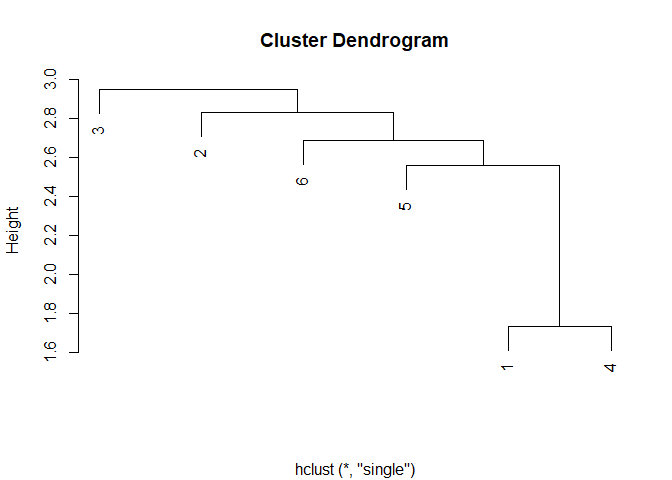
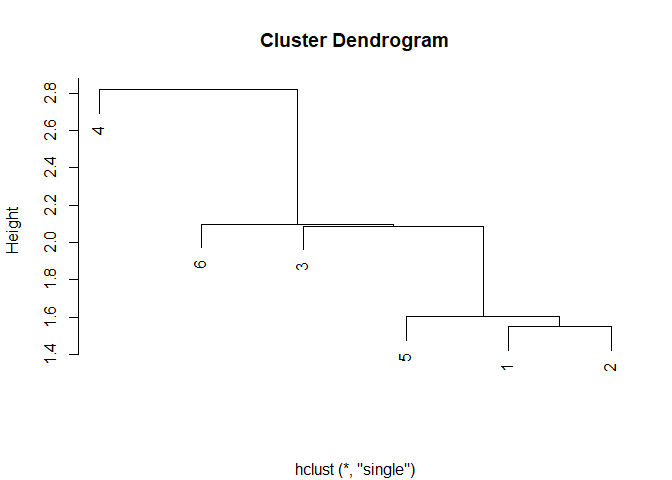
Added explanation on how to start the shiny ap from within the package

diff --git a/README.md b/README.md
@@ -34,6 +34,17 @@ if(!requireNamespace("devtools", quietly = TRUE))
 devtools::install_github("ECSchmitt/PPClustA")
 ```
 
+## Running the App
+
+To start the shiny app load the PPClustA library and call the
+PPClustA::runapp() function
+
+``` r
+library("PPClustA")
+
+PPClustA::runapp()
+```
+
 ## Some Theory behind the package
 
 Looking at [expression
@@ -70,13 +81,13 @@ random 6\*6 numerical matrix can be produced as follows
 matrix <- matrix(rnorm(36), nrow = 6)
 ```
 
-    #>             [,1]         [,2]        [,3]        [,4]       [,5]        [,6]
-    #> [1,] -0.81140678 -0.080612335 -1.02032591 -0.08516833 -0.6049650  0.02631892
-    #> [2,]  0.74368781  1.455889195 -0.99047392 -0.36204828 -1.0065386 -0.60746952
-    #> [3,]  0.41859004  0.323567474  0.90024820 -1.97053670 -0.2010431 -0.10691678
-    #> [4,] -1.63177319  0.044323565 -3.18838760  0.66166455  1.7764635  0.98202935
-    #> [5,]  0.74416054  0.002604604  0.51068212 -0.23529760 -0.3263455 -0.38105872
-    #> [6,] -0.06392969 -0.283727907  0.06392999  0.58601624  1.4552803  1.33990372
+    #>            [,1]       [,2]         [,3]       [,4]        [,5]        [,6]
+    #> [1,]  0.8823301 -0.2803960  1.646177158  0.8089389  1.03290233  2.10287832
+    #> [2,] -0.6381656 -1.5190047 -0.007113005 -2.1820147 -0.07160581  0.49954208
+    #> [3,]  1.6254155  0.9057499 -0.038640042 -1.1358802 -0.40184299 -0.92256409
+    #> [4,]  0.9606842 -1.1697382  0.305296802  2.3113424  0.22442014  0.04433023
+    #> [5,] -1.0480815 -0.3179402 -0.351158958  1.2508414 -0.39537050 -0.23964188
+    #> [6,] -3.1958999 -1.0970916 -0.610598206 -0.1754054 -0.01905454 -0.68451492
 
 To obtain a distance between the matrix columns (in case of a matrix
 input) or the vector members (in case of a vector input) one has to
@@ -95,11 +106,11 @@ distance_matrix <- dist(matrix, method = "euclidean")
 ```
 
     #>          1        2        3        4        5
-    #> 2 2.328016                                    
-    #> 3 3.016683 2.906765                           
-    #> 4 3.539978 4.877064 5.746628                  
-    #> 5 2.244287 2.212577 1.860829 5.139482         
-    #> 6 2.862899 3.942324 3.560017 3.657906 2.782992
+    #> 2 4.394981                                    
+    #> 3 4.448803 3.772276                           
+    #> 4 3.121459 4.822967 4.251852                  
+    #> 5 3.929363 3.763598 3.860769 2.604050         
+    #> 6 5.677772 3.537717 5.358106 4.989563 2.767890
 
 ### Hierarchical Clustering
 
